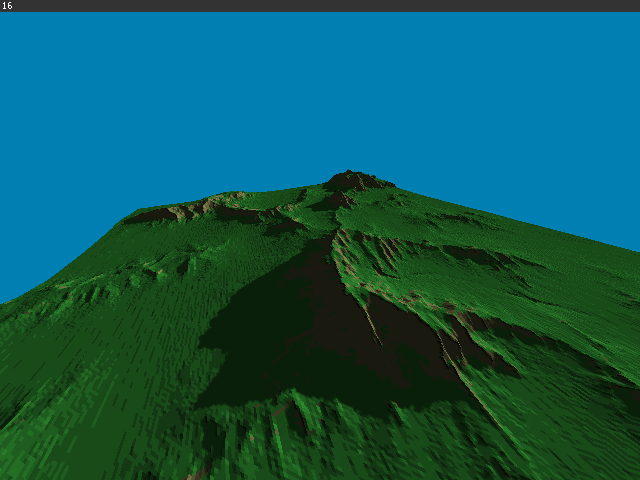
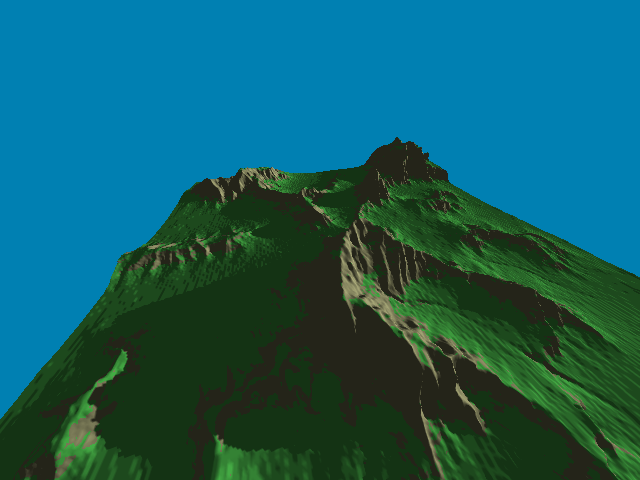
Re-add ground colour/lighting

diff --git a/hm.cc b/hm.cc
@@ -56,8 +56,13 @@ void print_vec3( const std::string & name, const glm::vec3 & v ) {
 	printf( "%s: %.3f %.3f %.3f\n", name.c_str(), v.x, v.y, v.z );
 }
 
-glm::vec3 triangle_normal( const glm::vec3 & a, const glm::vec3 & b, const glm::vec3 & c ) {
+// CCW winding points towards the camera
+glm::vec3 triangle_normal_ccw( const glm::vec3 & a, const glm::vec3 & b, const glm::vec3 & c ) {
 	return glm::normalize( glm::cross( b - a, c - a ) );
+}
+
+glm::vec3 triangle_perp_ccw( const glm::vec3 & a, const glm::vec3 & b, const glm::vec3 & c ) {
+	return glm::cross( b - a, c - a );
 }
 
 float lerp( const float a, const float b, const float t ) {
@@ -86,23 +91,41 @@ float bilinear_interpolation(
 const GLchar * const vert_src = GLSL(
 	in vec3 position;
 	in vec3 normal;
+	in float lit;
 
-	out vec3 c;
+	out vec3 n;
+	out float l;
 
 	uniform mat4 vp;
 
 	void main() {
-		c = normal;
+		n = normal;
+		l = lit;
 		gl_Position = vp * vec4( position, 1.0 );
 	}
 );
 
 const GLchar * frag_src = GLSL(
-	in vec3 c;
+	in vec3 n;
+	in float l;
+
 	out vec4 colour;
 
+	uniform vec3 sun;
+
 	void main() {
-		colour = vec4( c, 1.0 );
+		vec3 ground;
+		if( n.z > 0.9 ) {
+			ground = vec3( 0.4, 1.0, 0.4 );
+		}
+		else {
+			ground = vec3( 0.7, 0.7, 0.5 );
+		}
+
+		float d = max( 0, -dot( n, sun ) );
+		float light = max( 0.2, l * d );
+
+		colour = vec4( ground * light, 1.0 );
 	}
 );
 
@@ -178,21 +201,24 @@ private:
 	float * lit;
 
 	GLuint vbo = 0;
-	GLuint vbo_normals = 0;
+	GLuint vbo_normals;
+	GLuint vbo_lit;
 	GLuint vao;
 	GLuint ebo;
 
 	GLuint shader;
 	GLint at_pos;
 	GLint at_normal;
+	GLint at_lit;
 	GLint un_vp;
+	GLint un_sun;
 
 public:
 	void init( const std::string image ) {
 		pixels = stbi_load( image.c_str(), &w, &h, nullptr, 1 );
 
 		printf( "begin lit calculations\n" );
-		lit = new float[ w * h ];
+		lit = new GLfloat[ w * h ];
 		for( int i = 0; i < w * h; i++ ) {
 			lit[ i ] = 0;
 		}
@@ -220,6 +246,15 @@ public:
 				}
 			}
 		}
+
+		for( int y = 0; y < h; y++ ) {
+			for( int x = 0; x < w; x++ ) {
+				const int i = y * w + x;
+
+				lit[ i ] = lit[ i ] == -1 ? 1 : 0;
+			}
+		}
+
 		printf( "end lit calculations\n" );
 
 		printf( "sending data to gpu\n" );
@@ -227,7 +262,9 @@ public:
 		shader = compile_shader( vert_src, frag_src, "colour" );
 		at_pos = glGetAttribLocation( shader, "position" );
 		at_normal = glGetAttribLocation( shader, "normal" );
+		at_lit = glGetAttribLocation( shader, "lit" );
 		un_vp = glGetUniformLocation( shader, "vp" );
+		un_sun = glGetUniformLocation( shader, "sun" );
 
 		GLfloat * vertices = new GLfloat[ w * h * 3 ];
 		GLfloat * normals = new GLfloat[ w * h * 3 ];
@@ -242,7 +279,7 @@ public:
 				vertices[ base + 1 ] = y;
 				vertices[ base + 2 ] = height;
 
-				const glm::vec3 normal = glm::vec3( 1, 1, 0 );
+				const glm::vec3 normal = point_normal( x, y );
 
 				normals[ base ] = normal.x;
 				normals[ base + 1 ] = normal.y;
@@ -274,11 +311,16 @@ public:
 		glBindBuffer( GL_ARRAY_BUFFER, vbo_normals );
 		glBufferData( GL_ARRAY_BUFFER, w * h * sizeof( GLfloat ) * 3, normals, GL_STATIC_DRAW );
 
+		glGenBuffers( 1, &vbo_lit );
+		glBindBuffer( GL_ARRAY_BUFFER, vbo_lit );
+		glBufferData( GL_ARRAY_BUFFER, w * h * sizeof( GLfloat ), lit, GL_STATIC_DRAW );
+
 		glGenBuffers( 1, &ebo );
 		glBindBuffer( GL_ELEMENT_ARRAY_BUFFER, ebo );
 		glBufferData( GL_ELEMENT_ARRAY_BUFFER, ( w - 1 ) * ( h - 1 ) * sizeof( GLuint ) * 6, indices, GL_STATIC_DRAW );
 
 		delete vertices;
+		delete normals;
 		delete indices;
 
 		printf( "sent\n" );
@@ -288,6 +330,8 @@ public:
 		if( vbo != 0 ) {
 			glDeleteBuffers( 1, &ebo );
 			glDeleteBuffers( 1, &vbo );
+			glDeleteBuffers( 1, &vbo_normals );
+			glDeleteBuffers( 1, &vbo_lit );
 			glDeleteVertexArrays( 1, &vao );
 
 			delete lit;
@@ -296,7 +340,74 @@ public:
 	}
 
 	glm::vec3 point( int x, int y ) const {
-		return glm::vec3( x, y, pixels[ y * w + x ] / 8.0f );
+		return glm::vec3( x, y, pixels[ y * w + x ] / 4.0f );
+	}
+
+	glm::vec3 point_normal( int x, int y ) const {
+		glm::vec3 bent_normal = glm::vec3( 0 );
+
+		/*
+		 * A vertex looks like this:
+		 *
+		 *      +y
+		 *   \ 6 |
+		 *    \  |
+		 * 5   \ |  1
+		 *      \|
+		 * ------X------ +x
+		 *       |\
+		 *    2  | \   4
+		 *       |  \
+		 *       | 3 \
+		 *
+		 * We consider up to six triangles for the bent normal
+		 */
+
+		if( x > 0 ) {
+			if( y > 0 ) { // bottom left
+				const glm::vec3 tri2a = point( x, y );
+				const glm::vec3 tri2b = point( x - 1, y );
+				const glm::vec3 tri2c = point( x, y - 1 );
+
+				bent_normal += triangle_normal_ccw( tri2a, tri2b, tri2c );
+			}
+			if( y < h - 1 ) { // top left
+				const glm::vec3 tri5a = point( x, y );
+				const glm::vec3 tri5b = point( x - 1, y + 1 );
+				const glm::vec3 tri5c = point( x - 1, y );
+
+				const glm::vec3 tri6a = point( x, y );
+				const glm::vec3 tri6b = point( x, y + 1 );
+				const glm::vec3 tri6c = point( x - 1, y + 1 );
+
+				bent_normal += triangle_normal_ccw( tri5a, tri5b, tri5c );
+				bent_normal += triangle_normal_ccw( tri6a, tri6b, tri6c );
+			}
+		}
+
+		if( x < w - 1 ) {
+			if( y > 0 ) { // bottom right
+				const glm::vec3 tri3a = point( x, y );
+				const glm::vec3 tri3b = point( x, y - 1 );
+				const glm::vec3 tri3c = point( x + 1, y - 1 );
+
+				const glm::vec3 tri4a = point( x, y );
+				const glm::vec3 tri4b = point( x + 1, y - 1 );
+				const glm::vec3 tri4c = point( x + 1, y );
+
+				bent_normal += triangle_normal_ccw( tri3a, tri3b, tri3c );
+				bent_normal += triangle_normal_ccw( tri4a, tri4b, tri4c );
+			}
+			if( y < h - 1 ) { // top right
+				const glm::vec3 tri1a = point( x, y );
+				const glm::vec3 tri1b = point( x + 1, y );
+				const glm::vec3 tri1c = point( x, y + 1 );
+
+				bent_normal += triangle_normal_ccw( tri1a, tri1b, tri1c );
+			}
+		}
+
+		return glm::normalize( bent_normal );
 	}
 
 	float height( const float x, const float y ) const {
@@ -313,51 +424,10 @@ public:
 	}
 
 	void render() const {
-		// const glm::vec3 sun = glm::normalize( glm::vec3( 1, 0, -SLOPE ) );
-		// const glm::vec3 up = glm::vec3( 0, 0, 1 );
-                //
-		// glBegin( GL_TRIANGLES );
-		// for( int y = 0; y < h - 1; y++ ) {
-		// 	for( int x = 0; x < w - 1; x++ ) {
-		// 		const float noise = fabsf( stb_perlin_noise3( ( float ) x / w, ( float ) y / h, 0 ) ) / 10;
-                //
-		// 		const int tri1[ 3 ][ 2 ] = { { x, y }, { x, y + 1 }, { x + 1, y } };
-		// 		const int tri2[ 3 ][ 2 ] = { { x + 1, y + 1 }, { x + 1, y }, { x, y + 1 } };
-                //
-		// 		glm::vec3 points1[ 3 ];
-		// 		glm::vec3 points2[ 3 ];
-		// 		for( int i = 0; i < 3; i++ ) {
-		// 			points1[ i ] = point( tri1[ i ][ 0 ], tri1[ i ][ 1 ] );
-		// 			points2[ i ] = point( tri2[ i ][ 0 ], tri2[ i ][ 1 ] );
-		// 		}
-                //
-		// 		const glm::vec3 normal1 = triangle_normal( points1[ 0 ], points1[ 1 ], points1[ 2 ] );
-		// 		const glm::vec3 normal2 = triangle_normal( points2[ 0 ], points2[ 1 ], points2[ 2 ] );
-                //
-		// 		const glm::vec3 tex1 = fabsf( glm::dot( normal1, up ) ) + noise > 0.9 ? glm::vec3( 0.2, 0.6, 0.2 ) : glm::vec3( 0.5, 0.5, 0.3 );
-		// 		const glm::vec3 tex2 = fabsf( glm::dot( normal2, up ) ) + noise > 0.9 ? glm::vec3( 0.2, 0.6, 0.2 ) : glm::vec3( 0.5, 0.5, 0.3 );
-                //
-		// 		for( int i = 0; i < 3; i++ ) {
-		// 			const bool islit = lit[ tri1[ i ][ 1 ] * w + tri1[ i ][ 0 ] ] == -1;
-		// 			const float light = 0.2 + ( islit ? glm::dot( normal1, sun ) : 0 );
-                //
-		// 			glColor3fv( &( tex1 * light )[ 0 ] );
-		// 			glVertex3fv( &points1[ i ][ 0 ] );
-		// 		}
-                //
-		// 		for( int i = 0; i < 3; i++ ) {
-		// 			const bool islit = lit[ tri2[ i ][ 1 ] * w + tri2[ i ][ 0 ] ] == -1;
-		// 			const float light = 0.2 + ( islit ? glm::dot( normal2, sun ) : 0 );
-                //
-		// 			glColor3fv( &( tex2 * light )[ 0 ] );
-		// 			glVertex3fv( &points2[ i ][ 0 ] );
-		// 		}
-		// 	}
-		// }
-		// glEnd();
-
 		glUseProgram( shader );
 		glBindVertexArray( vao );
+
+		const glm::vec3 sun = glm::normalize( glm::vec3( 1, 0, -SLOPE ) );
 
 		const glm::mat4 P = glm::perspective( glm::radians( 120.0f ), 640.0f / 480.0f, 0.1f, 10000.0f );
 		const glm::mat4 VP = glm::translate(
@@ -374,6 +444,7 @@ public:
 		);
 
 		glUniformMatrix4fv( un_vp, 1, GL_FALSE, glm::value_ptr( VP ) );
+		glUniform3fv( un_sun, 1, glm::value_ptr( sun ) );
 
 		glBindBuffer( GL_ARRAY_BUFFER, vbo );
 		glBindBuffer( GL_ELEMENT_ARRAY_BUFFER, ebo );
@@ -383,6 +454,10 @@ public:
 		glBindBuffer( GL_ARRAY_BUFFER, vbo_normals );
 		glEnableVertexAttribArray( at_normal );
 		glVertexAttribPointer( at_normal, 3, GL_FLOAT, GL_FALSE, 0, 0 );
+
+		glBindBuffer( GL_ARRAY_BUFFER, vbo_lit );
+		glEnableVertexAttribArray( at_lit );
+		glVertexAttribPointer( at_lit, 1, GL_FLOAT, GL_FALSE, 0, 0 );
 
 		glDrawElements( GL_TRIANGLES, ( w - 1 ) * ( h - 1 ) * 6, GL_UNSIGNED_INT, 0 );
 	}
@@ -418,7 +493,7 @@ int main( int argc, char ** argv ) {
 		const glm::vec3 sideways = glm::vec3( -cosf( angles.y ), sinf( angles.y ), 0 );
 		pos += sideways * 100.0f * dt * ( float ) lr;
 		// pos.z = hm.height( pos.x, pos.y ) + 8;
-		pos.z += dz * 10.0f * dt;
+		pos.z += dz * 50.0f * dt;
 
 		hm.render();
 
